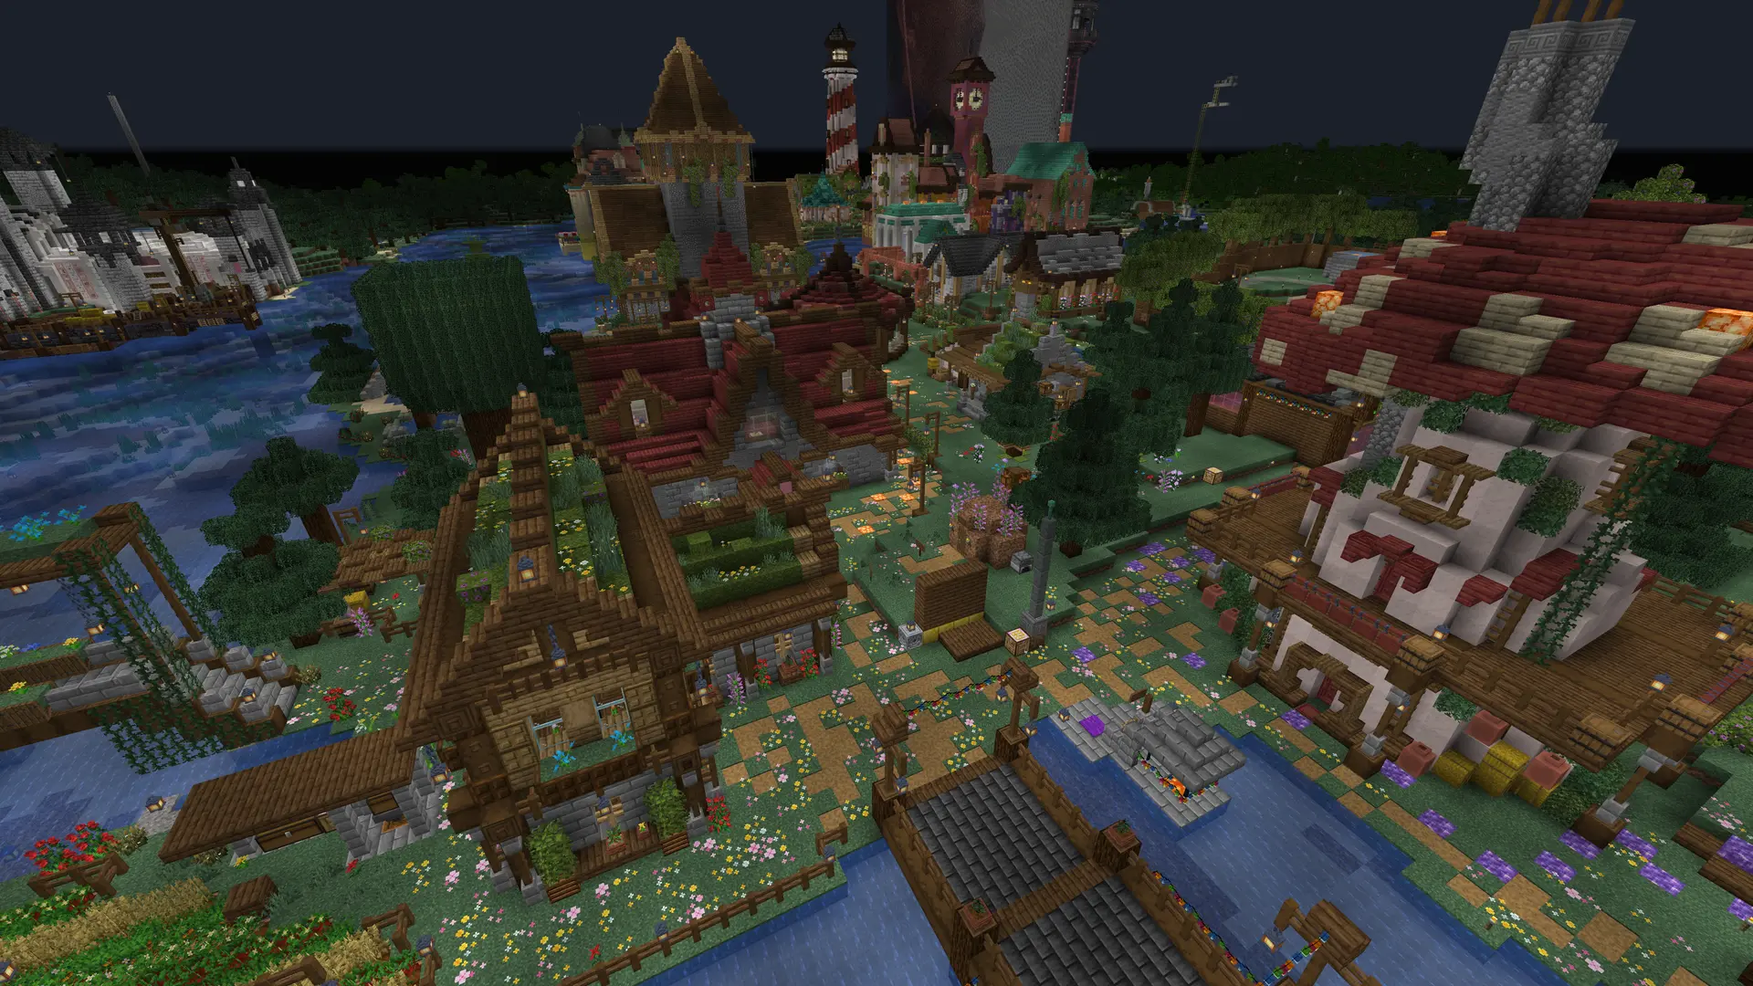
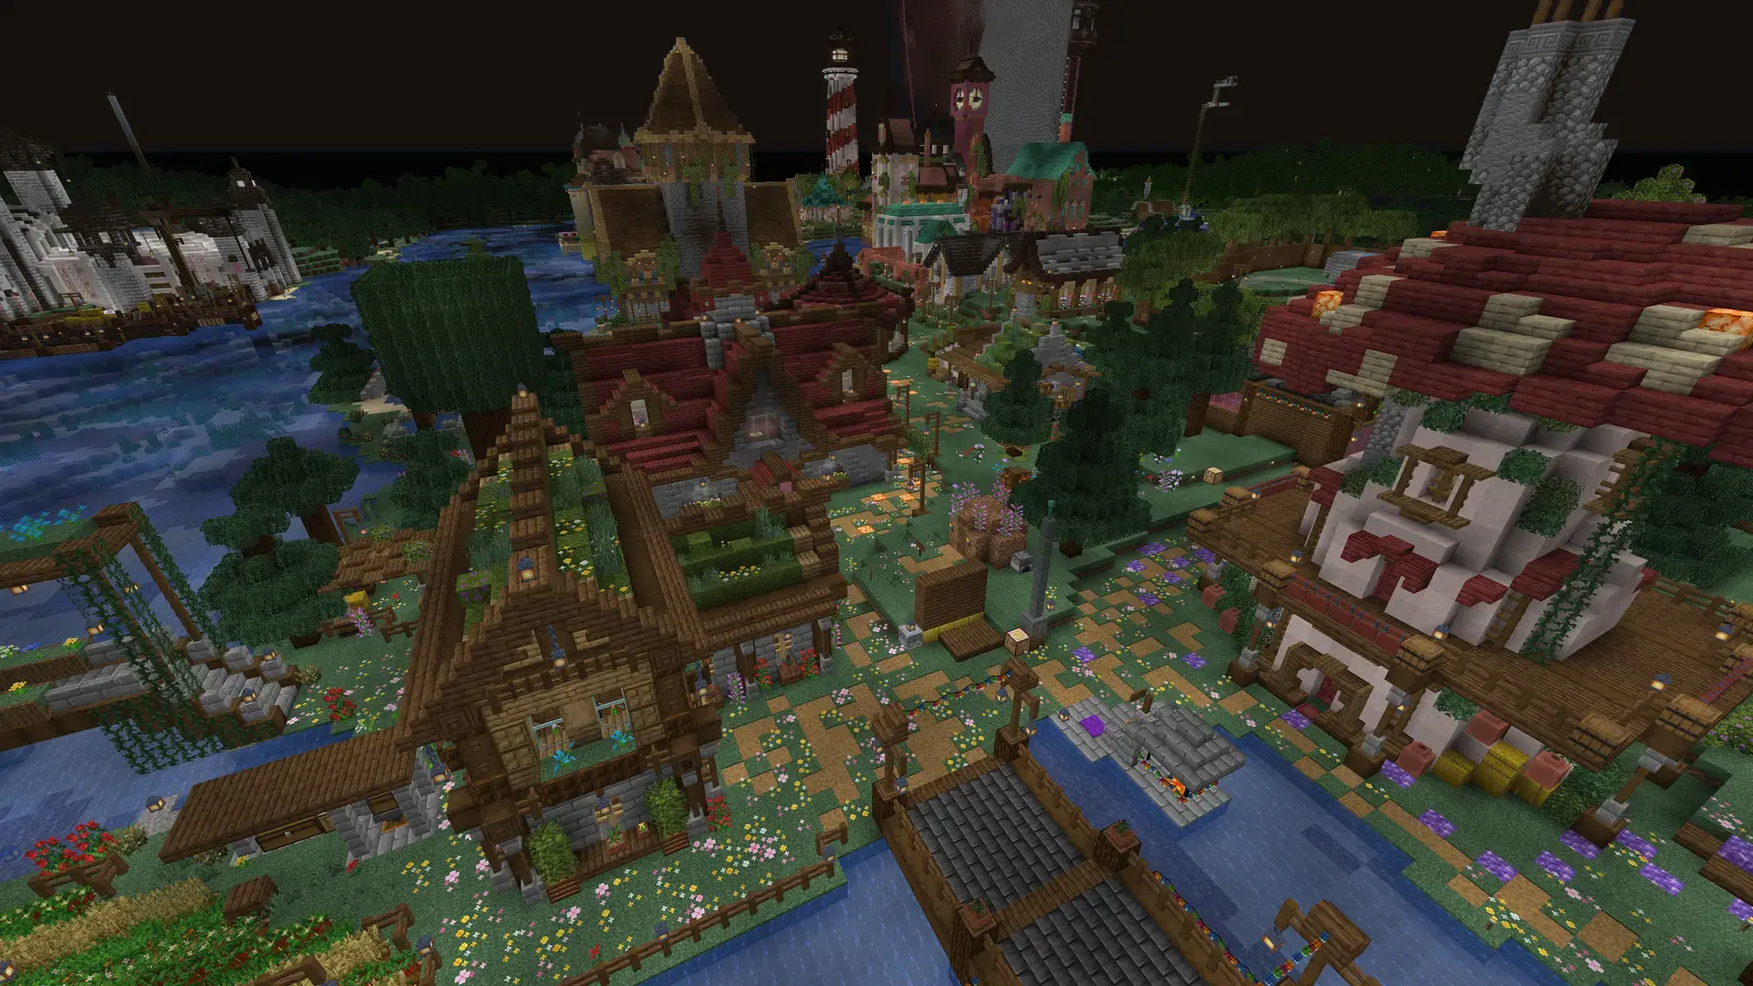
The world: the page's own night over the town, a lantern on a post, and the lights coming on
The one cold colour on the page was BlueMap's grey-blue night sky across the
top of the world. The viewer now gives BlueMap the page's warm night as its
sky after dark (it draws the sky as a colour times the light, so the colour
is the night token over that light) and moves back to the map's own sky by
day; the void past the edge follows it. The still was recoloured to match,
and map:poster takes every new still through the same script.

The control that opens the 3D map hung in a soft pool of night, the one
blurred edge on the page. It is now a lantern hung from the arm of a fence
post planted in the world, the sign nailed to the post under it and what it
does on a paper tag: the words read off wood and paper.

The town's lights come on as the world scrolls into view. The still arrives
in the dusk and its lanterns light in three groups, one after another, each
one opacity on a view timeline. The light is taken off the still itself
(scripts/map-lights.mjs, npm run map:lights): every warm, bright pixel BlueMap
drew becomes a soft pool at a quarter of the still's size, about 7 kB for all
three layers. map:poster writes them with each new still and the map-sync
workflow publishes them. Where there are no view timelines, under reduced
motion, on a device that skips the effects, and once the live map is up, the
town is simply lit.

The bar's plank is a token now (--plank, and --plank-up for a post).

Claude-Session: https://claude.ai/code/session_013gzJWW9JTtUBTyy2SG6s6d

Changed region(s): [[0.0, 0.0, 0.5312, 0.1528], [0.5938, 0.0, 1.0, 0.1528]]

diff --git a/src/app/badlands.css b/src/app/badlands.css
@@ -452,10 +452,7 @@
    same slice of strata the hours are divided by along its foot, the address on
    a paper tag nailed to it. */
 .b-bar.is-solid {
-  background:
-    repeating-linear-gradient(90deg, rgba(21, 16, 13, 0.18) 0 var(--px), transparent var(--px) 13px),
-    repeating-linear-gradient(90deg, transparent 0 37px, rgba(255, 240, 210, 0.04) 37px 39px),
-    linear-gradient(180deg, var(--wood-light) 0 var(--px), var(--wood) var(--px) calc(100% - var(--px) * 2), var(--wood-dark) calc(100% - var(--px) * 2));
+  background: var(--plank);
   box-shadow: inset 0 0 0 var(--px) rgba(21, 16, 13, 0.35);
 }
 .b-bar__strata { pointer-events: none; opacity: 0; transition: opacity var(--dur-3) var(--ease-out); }
@@ -941,6 +938,29 @@
 .b-frame.is-ready .b-frame__poster { opacity: 0; }
 .b-frame.is-ready .b-frame__shade { background: linear-gradient(180deg, var(--veil) 0%, transparent 18%, transparent 100%); }
 .b-frame__sheet { position: absolute; inset: 0; z-index: 2; background: var(--map-water); }
+/* The town's lights coming on as the world scrolls into view (World.tsx,
+   scripts/map-lights.mjs): the still arrives in the dusk, a layer of night
+   over it that lifts as the frame comes up, and three layers of lamplight
+   taken off the still come on one after another over it, so the lanterns
+   in the streets light by groups. Each is one opacity on a view timeline.
+   Where there are no view timelines, under reduced motion, and once the live
+   map is up, the town is simply lit. */
+.b-frame__town { position: absolute; inset: 0; pointer-events: none; }
+.b-frame__dusk { position: absolute; inset: 0; background: var(--night); opacity: 0; }
+.b-frame__lights { position: absolute; inset: 0; width: 100%; height: 100%; object-fit: cover; object-position: 50% 45%; }
+.b-frame.is-ready .b-frame__town, .b-frame.is-drawn .b-frame__town { visibility: hidden; }
+@keyframes b-dusk-lift { from { opacity: 0.5; } to { opacity: 0; } }
+@keyframes b-lights-on { from { opacity: 0; } to { opacity: 1; } }
+@supports (animation-timeline: view()) {
+  @media (prefers-reduced-motion: no-preference) {
+    .b-frame__dusk, .b-frame__lights { animation: linear both; animation-timeline: view(); will-change: opacity; }
+    .b-frame__dusk { animation-name: b-dusk-lift; animation-range: entry 25% entry 90%; }
+    .b-frame__lights { animation-name: b-lights-on; }
+    .b-frame__lights--1 { animation-range: entry 40% entry 55%; }
+    .b-frame__lights--2 { animation-range: entry 55% entry 70%; }
+    .b-frame__lights--3 { animation-range: entry 70% entry 85%; }
+  }
+}
 .b-frame.is-drawn .b-frame__poster, .b-frame.is-drawn .b-frame__shade, .b-frame.is-drawn .b-frame__view { visibility: hidden; }
 /* While the viewer loads, the still takes on the live map's light (the layer
    over it lifts, above), so the hand-over, once the first tiles are drawn, is
@@ -1004,36 +1024,89 @@ html.is-map-full { overflow: hidden; }
 .b-frame.is-drawn .b-hud__title .b-title, .b-frame.is-drawn .b-hud__meta { color: var(--ink); text-shadow: none; }
 .b-frame.is-drawn .b-hud__in img { box-shadow: 0 0 0 1px var(--ink); }
 
-/* The lantern that boots the viewer: the lantern itself is the control, no
-   panel round it. It hangs in a pool of night that falls over the map around
-   it, which is what keeps its words legible over a busy still, and is drawn
-   at a whole multiple of its 12 by 18 pixels so every pixel stays square.
-   Pointed at, it lifts a step and its word warms to paper. */
+/* The way into the 3D map: a lantern hung from the arm of a fence post
+   planted in the world, a sign nailed to the post under it, and a paper tag
+   under the sign. The lantern is the control and lifts a step when pointed
+   at; the sign's word warms to paper. The words are read off the wood and
+   the paper, so nothing soft has to be laid over the still to keep them
+   legible: the soft pool of night it used to hang in was the one blurred
+   edge on a page of hard pixels. The post stands left of the lantern, its
+   arm reaching over to the chain; drawn at whole multiples of the art's pixel. */
 .b-boot {
+  --arm: 6.5rem;     /* from the post to the lantern */
+  --chain: 1.25rem;
   pointer-events: auto;
   position: relative;
   isolation: isolate;
   display: grid;
   justify-items: center;
-  gap: var(--sp-2);
-  padding: var(--sp-5) var(--sp-7);
+  padding: 0 var(--sp-4) var(--sp-7);
   color: var(--lantern);
   text-align: center;
   text-decoration: none;
-  text-shadow: 0 var(--px) 0 var(--night);
 }
-.b-boot::before {
+/* the post, its arm along the top, and the chain the lantern hangs by */
+.b-boot__post {
+  position: absolute;
+  z-index: -1;
+  top: 0;
+  bottom: 0;
+  left: calc(50% - var(--arm) - var(--px) * 3);
+  width: calc(var(--px) * 6);
+  background: var(--plank-up);
+  box-shadow: calc(var(--px) * 2) 0 0 rgba(21, 16, 13, 0.45);
+}
+.b-boot__post::before {
   content: '';
   position: absolute;
-  inset: -45% -25%;
-  z-index: -1;
-  background: radial-gradient(closest-side, var(--pane) 35%, var(--veil) 62%, transparent);
-  pointer-events: none;
+  top: 0;
+  left: 0;
+  width: calc(var(--arm) + var(--px) * 7);
+  height: calc(var(--px) * 4);
+  background: var(--plank);
+  box-shadow: 0 var(--px) 0 rgba(21, 16, 13, 0.45);
 }
-.b-boot .b-lantern { width: 4.5rem; height: 6.75rem; margin-bottom: var(--sp-1); transition: transform var(--dur-2) var(--ease-out); }
-.b-boot__word { font-family: var(--font-data); font-size: var(--fs-data-lg); letter-spacing: 0.04em; text-transform: uppercase; transition: color var(--dur-1) var(--ease-out); }
-.b-boot__sub { font-size: var(--fs-sm); color: var(--tc-white); }
-.b-boot:focus-visible { outline: var(--px) solid var(--lantern); outline-offset: calc(var(--sp-1) * -1); }
+/* its foot, a block of the ground it is planted in */
+.b-boot::after {
+  content: '';
+  position: absolute;
+  z-index: -1;
+  bottom: 0;
+  left: calc(50% - var(--arm) - var(--px) * 6);
+  width: calc(var(--px) * 12);
+  height: calc(var(--px) * 3);
+  background: var(--wood-dark);
+  box-shadow: inset 0 var(--px) 0 var(--tc-brown);
+}
+.b-boot__post::after {
+  content: '';
+  position: absolute;
+  top: calc(var(--px) * 4);
+  left: calc(var(--arm) + var(--px) * 2);
+  width: var(--px);
+  height: var(--chain);
+  /* links of iron, a pixel each with a pixel between */
+  background: repeating-linear-gradient(180deg, var(--ink-faint) 0 var(--px), transparent var(--px) calc(var(--px) * 2));
+}
+.b-boot .b-lantern { width: 4.5rem; height: 6.75rem; margin-top: calc(var(--chain) + var(--px) * 4); transition: transform var(--dur-2) var(--ease-out); }
+/* the sign: a short plank nailed across the post, the word burnt in lantern light */
+.b-boot__word {
+  margin-top: var(--sp-3);
+  padding: var(--sp-2) var(--sp-4);
+  background: var(--plank);
+  clip-path: var(--notch);
+  box-shadow: inset 0 0 0 var(--px) rgba(21, 16, 13, 0.35);
+  font-family: var(--font-data);
+  font-size: var(--fs-data-lg);
+  letter-spacing: 0.04em;
+  text-transform: uppercase;
+  text-shadow: 0 var(--px) 0 var(--wood-dark);
+  transition: color var(--dur-1) var(--ease-out);
+}
+/* what it does, on a paper tag pinned under the sign */
+.b-boot__sub { margin-top: var(--px); padding: var(--px) var(--sp-3); background: var(--paper); color: var(--ink-soft); clip-path: var(--notch); font-size: var(--fs-sm); line-height: 1.5; }
+.b-boot:focus-visible { outline: none; }
+.b-boot:focus-visible .b-boot__word { outline: var(--px) solid var(--lantern); outline-offset: var(--px); clip-path: none; }
 .b-boot:focus-visible .b-lantern { transform: translateY(calc(var(--px) * -2)); }
 .b-boot:focus-visible .b-boot__word { color: var(--paper); }
 @media (hover: hover) {
@@ -1044,14 +1117,14 @@ html.is-map-full { overflow: hidden; }
 /* a phone's frame is smaller and its word has less room: the lantern at four
    times its pixels instead of six, the word at the bitmap face's smaller size */
 @media (max-width: 599px) {
-  .b-boot { padding: var(--sp-4) var(--sp-5); }
+  .b-boot { --arm: 4.5rem; --chain: 0.75rem; padding-bottom: var(--sp-6); }
   .b-boot .b-lantern { width: 3rem; height: 4.5rem; }
-  .b-boot__word { font-size: var(--fs-data); }
+  .b-boot__word { font-size: var(--fs-data); padding: var(--sp-2) var(--sp-3); }
 }
 /* the narrowest phones (320 px): the rail's heading wraps and the frame is
-   at its least, so the lantern drops its small line rather than run into the places */
+   at its least, so the lantern drops its tag rather than run into the places */
 @media (max-width: 359px) {
-  .b-boot { padding: var(--sp-3) var(--sp-4); }
+  .b-boot { padding-bottom: var(--sp-4); }
   .b-boot__sub { display: none; }
 }
 .b-boot__wait { font-family: var(--font-data); font-size: var(--fs-data); color: var(--paper); text-shadow: 0 var(--px) 0 var(--night); }
@@ -1288,10 +1361,7 @@ html.is-map-full { overflow: hidden; }
     position: relative;
     margin-inline: calc(var(--gutter) * -1);
     padding: calc(env(safe-area-inset-top, 0px) + var(--sp-2)) var(--gutter) var(--sp-2);
-    background:
-      repeating-linear-gradient(90deg, rgba(21, 16, 13, 0.18) 0 var(--px), transparent var(--px) 13px),
-      repeating-linear-gradient(90deg, transparent 0 37px, rgba(255, 240, 210, 0.04) 37px 39px),
-      linear-gradient(180deg, var(--wood-light) 0 var(--px), var(--wood) var(--px) calc(100% - var(--px) * 2), var(--wood-dark) calc(100% - var(--px) * 2));
+    background: var(--plank);
     box-shadow: inset 0 0 0 var(--px) rgba(21, 16, 13, 0.35);
   }
   .b-frame.is-full .b-hud__top::after, .b-frame:fullscreen .b-hud__top::after {
@@ -1344,10 +1414,7 @@ html.is-map-full { overflow: hidden; }
   gap: var(--sp-2) var(--sp-4);
   min-height: 3.25rem;
   padding: var(--sp-2) var(--gutter);
-  background:
-    repeating-linear-gradient(90deg, rgba(21, 16, 13, 0.18) 0 var(--px), transparent var(--px) 13px),
-    repeating-linear-gradient(90deg, transparent 0 37px, rgba(255, 240, 210, 0.04) 37px 39px),
-    linear-gradient(180deg, var(--wood-light) 0 var(--px), var(--wood) var(--px) calc(100% - var(--px) * 2), var(--wood-dark) calc(100% - var(--px) * 2));
+  background: var(--plank);
   box-shadow: inset 0 0 0 var(--px) rgba(21, 16, 13, 0.35);
 }
 /* a room's name is the largest thing in the room: everything inside stops a step below */

diff --git a/src/components/badlands/World.tsx b/src/components/badlands/World.tsx
@@ -12,9 +12,9 @@ import { plural } from '@/lib/format';
 import Drawer from './Drawer';
 import PlayerHead from './PlayerHead';
 import Rail, { revealRailItem } from './Rail';
-import { CREW, MAP_POSTER, MAP_URL, SITE_NAME, handCase, titleCase, type Plate, type RoomId } from './data';
+import { CREW, MAP_LIGHTS, MAP_POSTER, MAP_URL, SITE_NAME, handCase, titleCase, type Plate, type RoomId } from './data';
 import type { ServerState } from './hooks';
-import { useInert, useMediaQuery } from './hooks';
+import { useEffectsAllowed, useInert, useMediaQuery } from './hooks';
 import { photoProps, PHOTO_SIZES } from './photo';
 import { toast } from './Toast';
 
@@ -74,6 +74,22 @@ function useLinger<T>(value: T | null, ms = 400): { shown: T | null; leaving: bo
   }, [value, ms, settle]);
   const shown = value ?? kept;
   return { shown, leaving: value === null && shown !== null, settle };
+}
+
+/** The way into the 3D map: a lantern hung from the arm of a fence post
+    planted in the world, the sign nailed to the post under it, and what it
+    does on a paper tag. The lantern is the control, as it always was; the
+    wood and the paper are what keep its words legible over the still, where
+    a soft pool of night round it was the one blurred edge on the page. */
+function Signpost({ sub }: { sub: string }) {
+  return (
+    <>
+      <span className="b-boot__post" aria-hidden="true" />
+      <Lantern lit />
+      <span className="b-boot__word">Ferðast um heiminn</span>
+      <span className="b-boot__sub">{sub}</span>
+    </>
+  );
 }
 
 /* a plain click: anything with a modifier keeps the link's own meaning (a new tab) */
@@ -164,6 +180,8 @@ function World({ plates, config, pinned, server, syncedOn, bases, room, onCloseR
      anyone has scrolled to the world, as it always was, with no fade. */
   const [posterOn, setPosterOn] = useState(false);
   useEffect(() => { setPosterOn(true); }, []);
+  /* the town's lights coming on over the still: not on a device that skips the effects */
+  const effects = useEffectsAllowed();
 
   /* The rooms' code is fetched once the browser is truly idle, so a door
      opens at once later and the first seconds, when a slow phone is still
@@ -363,6 +381,22 @@ function World({ plates, config, pinned, server, syncedOn, bases, room, onCloseR
       <div ref={frameRef} className={`b-frame${live ? ' is-live' : ''}${ready ? ' is-ready' : ''}${drawn ? ' is-drawn' : ''}${shut ? ' is-room' : ''}${full === 'overlay' ? ' is-full' : ''}${live && still ? ' is-still' : ''}${menu && ready ? ' is-menu' : ''}`}>
         {/* eslint-disable-next-line @next/next/no-img-element */}
         {posterOn && <img {...photoProps(MAP_POSTER, PHOTO_SIZES.poster)} className="b-frame__poster" alt="Heimasvæðið á JOÐ séð úr lofti" width={1920} height={1080} decoding="async" fetchPriority="low" />}
+        {/* The town's lights come on as the world comes into view: the still
+            arrives in the dusk, and its lanterns light one group after
+            another (badlands.css, on a view timeline). The light is taken off
+            the still itself (scripts/map-lights.mjs), a pool round every lamp
+            it shows; the live map has its own. Under the frame's shade, so
+            the dark at its edges falls on the lamplight too. */}
+        {posterOn && effects && MAP_LIGHTS.length > 0 && (
+          <div className="b-frame__town" aria-hidden="true">
+            <div className="b-frame__dusk" />
+            {MAP_LIGHTS.map((src, i) => (
+              // eslint-disable-next-line @next/next/no-img-element -- a few kB of soft light, drawn at a quarter of the still's size
+              <img key={src} src={src} className={`b-frame__lights b-frame__lights--${i + 1}`} alt="" width={480} height={270} decoding="async" fetchPriority="low" />
+            ))}
+          </div>
+        )}
+
         <div className="b-frame__shade" aria-hidden="true" />
 
         {/* The viewer lays itself out for the frame (jod-embed in public/bluemap-jod/jod.css)
@@ -450,15 +484,11 @@ function World({ plates, config, pinned, server, syncedOn, bases, room, onCloseR
                 // eslint-disable-next-line @next/next/no-html-link-for-pages
                 <a href={MAP_URL} className="b-boot" onTouchStart={warmViewer} onFocus={warmViewer}
                   onClick={e => { if (plainClick(e)) { e.preventDefault(); openFull(); } }}>
-                  <Lantern lit />
-                  <span className="b-boot__word">Ferðast um heiminn</span>
-                  <span className="b-boot__sub">opnar þrívíddarkortið á heilum skjá</span>
+                  <Signpost sub="opnar þrívíddarkortið á heilum skjá" />
                 </a>
               ) : (
                 <button type="button" className="b-boot" onPointerEnter={warmViewer} onFocus={warmViewer} onClick={() => setLive(true)}>
-                  <Lantern lit />
-                  <span className="b-boot__word">Ferðast um heiminn</span>
-                  <span className="b-boot__sub">hleður þrívíddarkortið · dragðu, snúðu, stækkaðu</span>
+                  <Signpost sub="hleður þrívíddarkortið · dragðu, snúðu, stækkaðu" />
                 </button>
               )
             )}

diff --git a/public/bluemap-jod/jod.js b/public/bluemap-jod/jod.js
@@ -20,7 +20,8 @@
    - puts the plank with the way back to JOÐ across the top of the full screen
      map (named for the base on a base map's viewer, /kort/<id>), and turns a
      place's lantern into its postcard;
-   - opens the map at night, the hour the site is set in;
+   - opens the map at night, the hour the site is set in, under the page's
+     own warm night rather than BlueMap's grey-blue one;
    - and, inside the home page's frame, answers the page: when the first view
      is on screen (so the still can hand over), when its menu is open, pausing
      while the frame is out of sight, night and day, flying to a place, and
@@ -44,6 +45,8 @@
   const MARGIN = 48;
   const NIGHT = 0.25;
   const NIGHT_AMBIENT = 0.18;
+  /* the page's night (--night in src/app/tokens.css), the sky the map takes at night */
+  const NIGHT_SKY = [0x15 / 255, 0x10 / 255, 0x0d / 255];
 
   const tell = (type, detail) => {
     if (embedded) window.parent.postMessage({ source: 'jod-map', type, ...detail }, location.origin);
@@ -207,16 +210,30 @@
 
     quality(app);
 
-    /* Past the edge of the rendered world BlueMap paints its void colour, black
-       unless the map says otherwise, which cuts a hard band under the horizon.
-       Left at black, it becomes the sky a shade down, so the world stands in
-       the evening air instead of on a black shelf. */
+    /* The sky. BlueMap draws it as the map's sky colour times the light (the
+       larger of the sun's strength squared and the ambient light), so at
+       night the colour it is given is the page's own night over that light:
+       the world then stands in the same warm dark as the strata over the
+       frame, where BlueMap's grey-blue night was the one cold colour on the
+       page. By day the map's own sky comes back, and between the two it
+       moves with the sun. map:poster takes its still through this too.
+       Past the edge of the rendered world BlueMap paints its void colour,
+       black unless the map says otherwise, which cuts a hard band under the
+       horizon; left at black, it follows the sky a shade down, so the world
+       stands in the evening air instead of on a black shelf. */
     const voidColor = viewer.data.uniforms.voidColor?.value;
     const skyColor = viewer.data.uniforms.skyColor?.value;
-    if (voidColor && skyColor && voidColor.r + voidColor.g + voidColor.b < 0.02) {
-      voidColor.setRGB(skyColor.r * 0.62, skyColor.g * 0.6, skyColor.b * 0.66);
-      viewer.redraw();
-    }
+    const daySky = skyColor ? [skyColor.r, skyColor.g, skyColor.b] : null;
+    const voidFollows = !!(voidColor && skyColor && voidColor.r + voidColor.g + voidColor.b < 0.02);
+    const paintSky = (sunValue) => {
+      if (!skyColor || !daySky) return;
+      const ambientNow = viewer.data.uniforms.ambientLight?.value ?? 0;
+      const nightLight = Math.max(NIGHT * NIGHT, ambientNow, 0.01);
+      const t = Math.min(1, Math.max(0, (1 - sunValue) / (1 - NIGHT)));
+      const at = (i) => daySky[i] + (Math.min(1, NIGHT_SKY[i] / nightLight) - daySky[i]) * t;
+      skyColor.setRGB(at(0), at(1), at(2));
+      if (voidFollows) voidColor.setRGB(skyColor.r * 0.62, skyColor.g * 0.6, skyColor.b * 0.66);
+    };
 
     /* A tile that arrives draws one frame. BlueMap draws at the screen's full
        rate for a whole second after every tile, which is over in a moment when
@@ -254,7 +271,7 @@
       jod.night = !!on;
       const from = sun.value;
       const to = on ? NIGHT : 1;
-      animate(instant ? 0 : 1400, (k) => { sun.value = from + (to - from) * k; viewer.redraw(); });
+      animate(instant ? 0 : 1400, (k) => { sun.value = from + (to - from) * k; paintSky(sun.value); viewer.redraw(); });
       tell('night', { on: jod.night });
     };
     /* The map opens at night, the hour the site is set in: the town's own
@@ -264,6 +281,8 @@
     const ambient = viewer.data.uniforms.ambientLight;
     if (ambient && ambient.value < NIGHT_AMBIENT) ambient.value = NIGHT_AMBIENT;
     jod.setNight(!params.has('dagur'), true);
+    paintSky(sun.value);
+    viewer.redraw();
 
     /* Fly to a place: the camera's target glides there and comes in close enough to see it. */
     jod.flyTo = (point, id, done) => {

diff --git a/src/app/tokens.css b/src/app/tokens.css
@@ -90,6 +90,16 @@
   --wood:       var(--tc-brown);
   --wood-light: #6B4A2E;
   --wood-dark:  #35221A;
+  /* a plank: its grain, a lighter board every so often, and a bevelled edge
+     (the bar, the full-screen map's plank, the signpost, the rooms' walls) */
+  --plank:
+    repeating-linear-gradient(90deg, rgba(21, 16, 13, 0.18) 0 var(--px), transparent var(--px) 13px),
+    repeating-linear-gradient(90deg, transparent 0 37px, rgba(255, 240, 210, 0.04) 37px 39px),
+    linear-gradient(180deg, var(--wood-light) 0 var(--px), var(--wood) var(--px) calc(100% - var(--px) * 2), var(--wood-dark) calc(100% - var(--px) * 2));
+  /* the same wood standing up: a post, its grain running down it */
+  --plank-up:
+    repeating-linear-gradient(180deg, rgba(21, 16, 13, 0.18) 0 var(--px), transparent var(--px) 11px),
+    linear-gradient(90deg, var(--wood-light) 0 var(--px), var(--wood) var(--px) calc(100% - var(--px) * 2), var(--wood-dark) calc(100% - var(--px) * 2));
 
   /* ── status ── */
   --online:  #8FB06A;

diff --git a/src/components/badlands/data.ts b/src/components/badlands/data.ts
@@ -57,6 +57,11 @@ export const MAP_URL = `/bluemap/index.html#${MAP_START_VIEW}`;
 /* The map's still, by the version map:poster wrote: the image optimiser keeps
    an address's images for a year, so a new still needs a new address. */
 export const MAP_POSTER = `/map-poster.webp?v=${posterFile.version}`;
+/* The town's lights, taken off the same still by scripts/map-lights.mjs: three
+   layers that come on one after another as the world scrolls into view.
+   None until a still has had its lights taken. */
+const lightsOf = (posterFile as { lights?: string }).lights;
+export const MAP_LIGHTS: string[] = lightsOf ? [1, 2, 3].map(n => `/map-lights-${n}.webp?v=${lightsOf}`) : [];
 
 export interface Plate { id: string; src: string; title: string; sub: string }
 
